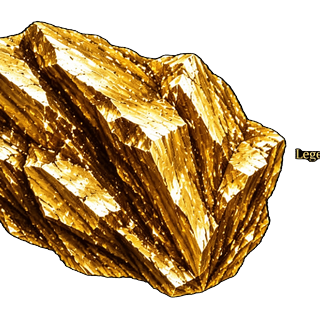
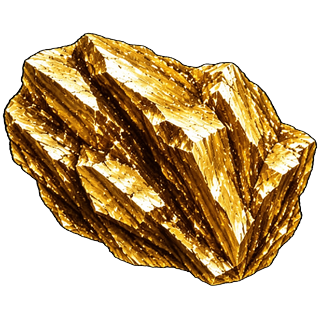
deploy: 2026-07-14 10:47 Co-Authored-By: Antigravity <noreply@google.com>

diff --git a/development_journal.md b/development_journal.md
@@ -2357,8 +2357,8 @@ octyrna, causing lower-level versions (Lv.32, 42, 55) to receive the intense dro
 - **Problem 1 (holes)**: Previous ore processing (M174 global threshold, then rembg/BFS attempts) created transparent holes in ore interior texture — crevice pixels were being mistakenly removed.
 - **Root Cause**: Ore art uses pure #000000 for background AND for interior dark shadows/crevices that form connected paths to the edge. BFS with any non-zero tolerance floods through crevices into interior. rembg also misclassifies dark interior as background.
 - **Fix**: Ultra-tight BFS (`sum==0`, only remove exact [0,0,0] pixels from edges). Interior crevice pixels like [2,2,0], [0,2,1] (sum≥1) act as natural flood blockers, keeping them opaque. Interior isolated black patches (630 px total, orphaned from bg) stay opaque. All 6 ores now show solid crystalline texture without transparent gaps.
-- **Problem 2 (legendary size)**: Legendary ore backup (2263×1446) has content bbox 2223×1425 (ratio=1.56, very wide). Fit-within-320×320 scaled by width → only 320×206, visually tiny vs other ores (320×255+).
-- **Fix**: Detect wide ores (ratio>1.38): scale to 88% height (281px), then center-crop width to 320. Result: 320×281 — now comparable in visual size to other ores.
+- **Problem 2 (legendary size + hidden text)**: Legendary ore backup (2263×1446) had "Legendary / L" text watermark baked into the right side of the image (gold text on black bg). BFS kept text opaque (gold ≠ black), extending bounding box width → fit-within-320 only scaled to 320×206. Text also remained visible as floating gold letters.
+- **Fix**: After BFS, apply connected-component filter (`scipy.ndimage.label`): keep only the largest opaque component (ore body = 1,730,624 px = 99%), remove isolated components (text letters: 14,944 px + 3,161 px + tiny orphans). Without text bloating bbox, ore rescales to 320×257 — same height range as other ores. No cropping needed.
 - **Problem 3 (common ore too white)**: Common ore backup is bright white/silver (avg lum=195.2). User wants "abu metalik" — dirty gray metallic like rough stone.
 - **Fix**: Strong grayscale blend (80% desaturate) + cool gray tint (slight blue channel) + 65% brightness reduction + 1.2x contrast. White highlights → medium blue-gray (148,152,165); shadows → dark blue-gray (74,76,83). Now looks like rough metallic stone.
 - **Cache bust** (`src/data/items.json`): `?v=13` → `?v=14`, 90 references updated.
